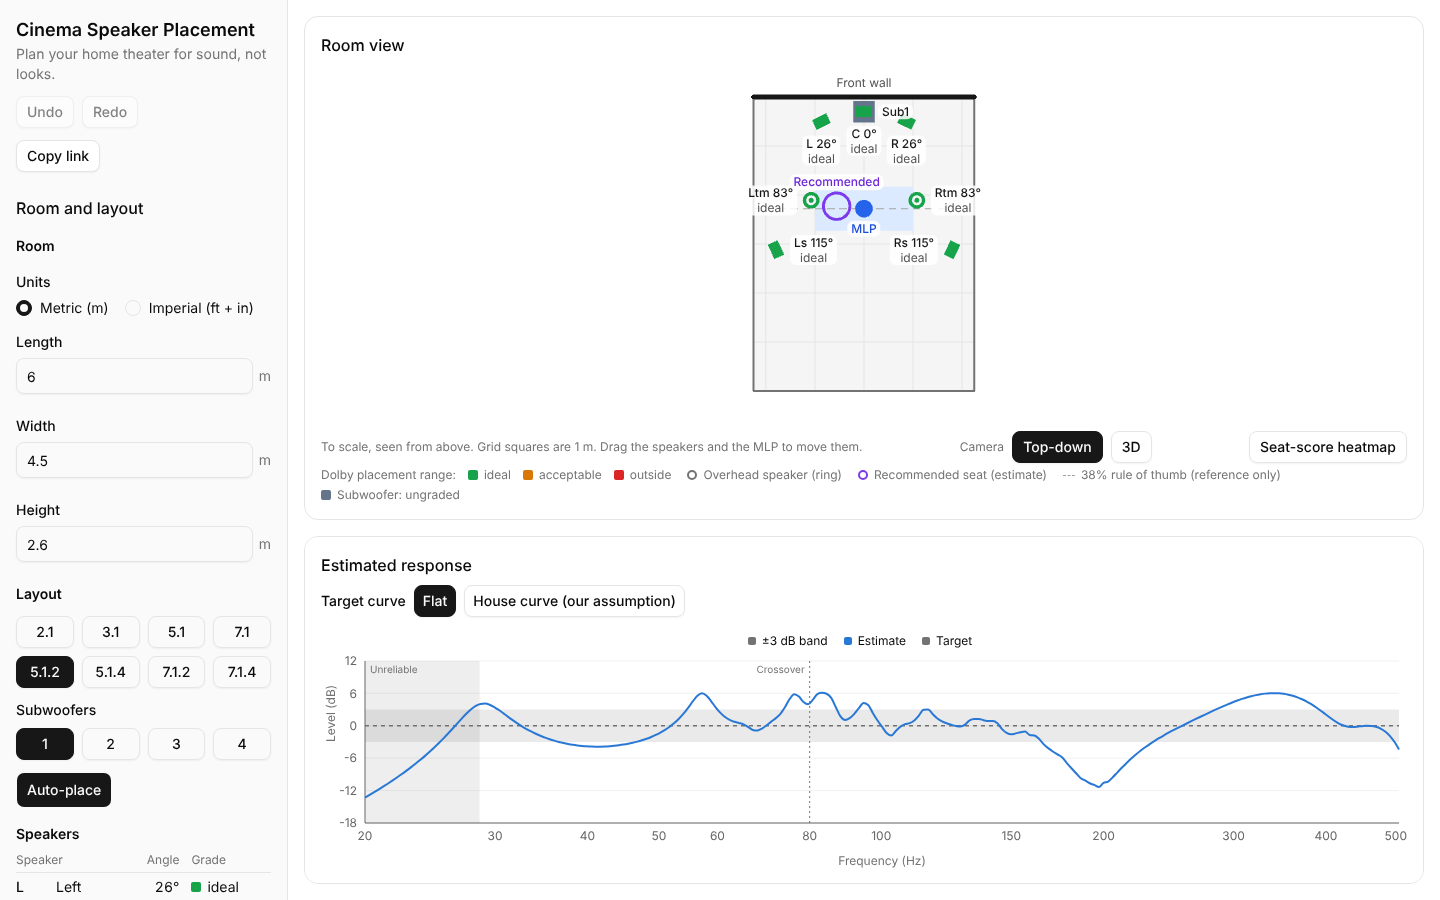
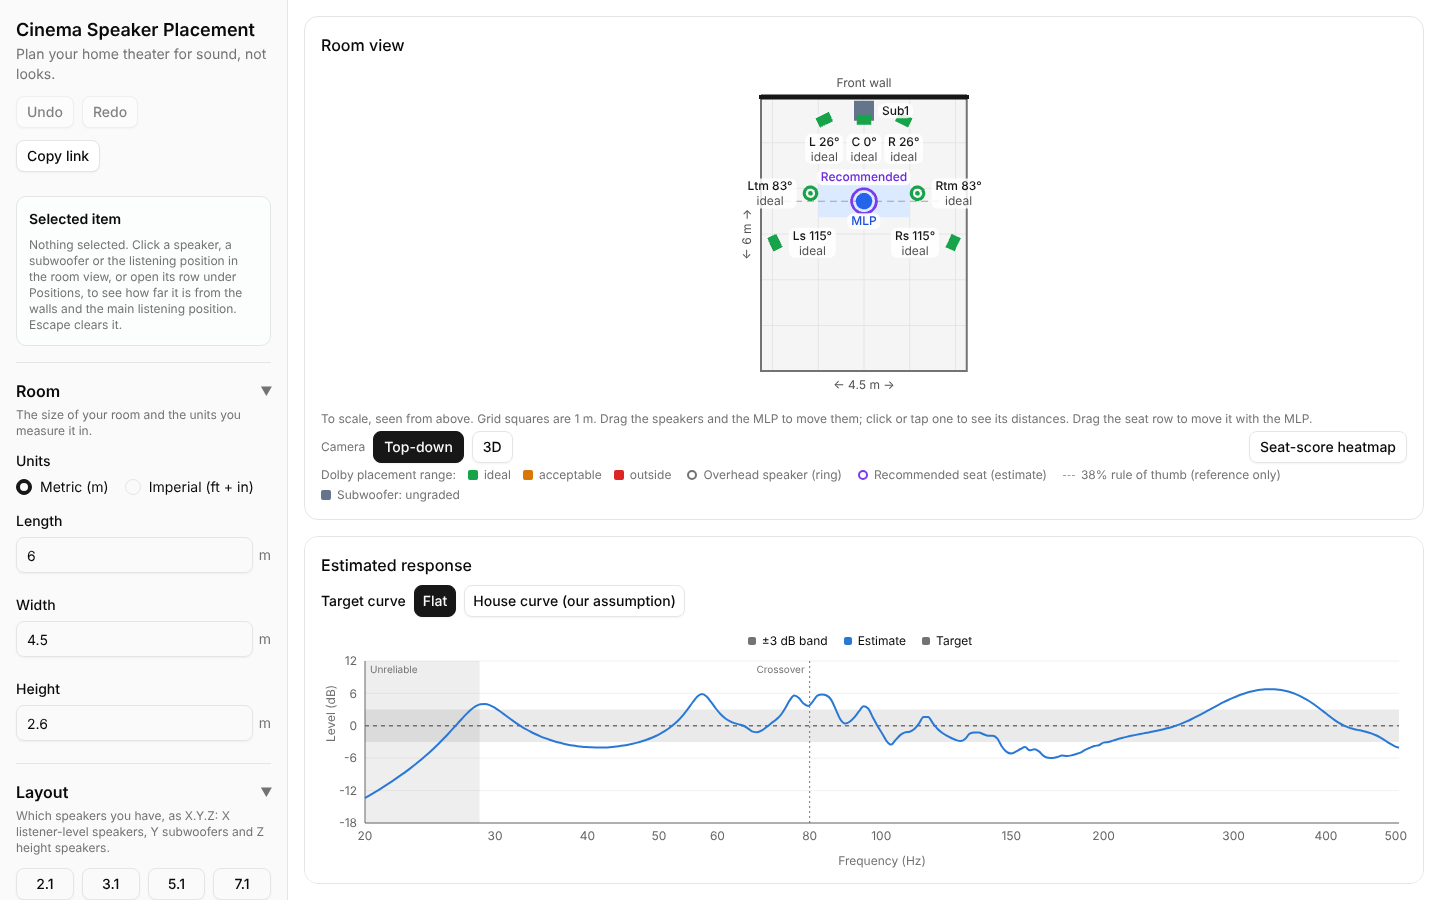
docs: v1.1.0 README, changelog, screenshot and version
Claude-Session: https://claude.ai/code/session_018fqPofzZTUT1dQDMrUubNf

diff --git a/CHANGELOG.md b/CHANGELOG.md
@@ -2,6 +2,38 @@
 
 All notable changes to this project are documented here. The project follows [Semantic Versioning](https://semver.org/). Every release is a `vX.Y.Z` tag on `main`, which deploys the site to GitHub Pages.
 
+## [1.1.0] - 2026-10-16
+
+Real-room placement, room objects and a clearer UI. Speakers now land where a home theater would put them, the plan can hold the couch, screen, furniture, doors and windows, and every grade explains itself.
+
+### Changed
+
+- **Auto-place follows real rooms** (ADR 0005). Speakers keep Dolby's angles, but Left, Center and Right sit 0.5 m from the front wall and the surrounds go to the side or back walls, instead of all sitting on one circle around the MLP. The sidebar explains that the receiver's distance (delay) setting evens out the different distances (#49).
+- **The recommended seat prefers the centre line.** An off-centre seat is only recommended when it is meaningfully better, and the UI says why. Candidate seats are scored with the speakers installed symmetric to the room (#48).
+- **The couch is drawn with the listener's head near its back**, so the MLP sits where a head would be (#47).
+- **Grouped, collapsible sidebar**: Room, Layout, Speakers, Seating, Room objects and Results (#52).
+
+### Added
+
+- **Measurements in the sketch**: the room's width and length along its walls (#50).
+- **Select an item** to see its distances to the two nearest walls and to the MLP, drawn as dimension lines (#51).
+- **Every grade explains itself**: its range, where it comes from and the cited source (#53).
+- **Room objects**, drawn and warned about but not part of the estimate (ADR 0006):
+  - a **screen or TV** on the front wall, with acoustically transparent screens (#55)
+  - a movable, resizable **couch**; the MLP sits on it (#54)
+  - up to 8 **furniture boxes**, turnable in 90° steps (#56)
+  - up to 6 **doors and windows** on any wall (#57)
+- **Placement warnings** W1–W7: a speaker in a door's swing or in front of a window, a subwoofer in a doorway, furniture blocking the direct sound, a speaker just above a cabinet top, uneven L/R reflection points, and the MLP close to the back wall. Each names its source class (#56, #57).
+- **Auto-place uses the screen**: with a screen, Left and Right go to its edges and the Center below, above or behind it, always inside Dolby's ranges (#58).
+- Research notes on real-room placement, seating, screens and openings, from manufacturers, standards and forums alongside Dolby (#40–#43), and ADRs 0005 and 0006 (#44, #45).
+
+### Notes
+
+- **Share links**: config schema version 2 (#46). Links made with 1.0.0 keep opening and are migrated. Version 2 links use short field names and compact openings to stay under the URL budget (ADR 0003 amendments).
+- With a default TV, auto Left and Right move in to 22°, the narrow end of Dolby's 22°–30° range: Dolby's range always wins over the screen edges.
+- In the default room the surrounds now read about 0.7 dB short of reference level on headroom, because they sit farther away at the side walls.
+- All acoustic output is still an estimate from a simplified model, never a measurement (ADR 0002).
+
 ## [1.0.0] - 2026-10-15
 
 The first complete release: plan a rectangular home theater room from Dolby's placement guidelines and a simplified low-frequency model, entirely in the browser.
@@ -44,5 +76,6 @@ The first complete release: plan a rectangular home theater room from Dolby's pl
 - CI for pull requests to `develop`, and the GitHub Pages deploy on release tags (#18).
 - Planning documents: CLAUDE.md, GLOSSARY.md, ADRs 0001–0002 and the cited Dolby placement research (#3).
 
+[1.1.0]: https://github.com/skcon/cinema-speaker-placement/compare/v1.0.0...v1.1.0
 [1.0.0]: https://github.com/skcon/cinema-speaker-placement/compare/v0.1.0...v1.0.0
 [0.1.0]: https://github.com/skcon/cinema-speaker-placement/releases/tag/v0.1.0

diff --git a/README.md b/README.md
@@ -18,16 +18,19 @@ See [CLAUDE.md](CLAUDE.md) for the project brief and architecture, [GLOSSARY.md]
   - listener-level speakers at Dolby's azimuth ranges: the front stage near the front wall, the surrounds at the side or back walls, with the receiver's distance setting evening out the arrival times
   - overhead speakers at Dolby's elevation angles and spacing
   - subwoofers in published multi-subwoofer arrangements
+  - with a screen, Left and Right at its edges and the Center below, above or behind it, inside Dolby's ranges
   - every range cites its source
-- **Placement-range grades**: each speaker is ideal, acceptable or outside on its angle (and elevation for overhead speakers) from the main listening position (MLP).
+- **Placement-range grades**: each speaker is ideal, acceptable or outside on its angle (and elevation for overhead speakers) from the main listening position (MLP), and each grade explains its range and source.
 - **Room view**:
-  - a top-down floor plan where you drag speakers, subwoofers and the MLP
+  - a top-down floor plan where you drag speakers, subwoofers, the MLP and room objects, with the room's measurements along its walls
+  - select an item to see its distances to the nearest walls and the MLP
   - a 3D view you can orbit to see overhead speakers in space
   - a seat row, the 38% rule of thumb as a reference, and a seat-score heatmap
 - **Estimated response at the MLP**:
   - room modes, boundary interference, crossover and subwoofer roll-off, against a flat or house target curve
   - weaknesses and strengths listed with their likely cause
-- **Recommended seat** from a grid of candidate seats scored on bass smoothness and placement fit, and "Move MLP here".
+- **Room objects**: a movable, resizable couch the MLP sits on, a screen or TV, up to 8 furniture boxes and up to 6 doors and windows. They are drawn and give placement warnings (for example a speaker in front of a window or furniture blocking the direct sound), each naming its source.
+- **Recommended seat** from a grid of candidate seats scored on bass smoothness and placement fit, preferring the room's centre line, and "Move MLP here".
 - **Headroom check**: whether your speakers and amplifier can reach reference level at the MLP.
 - **Share links**:
   - the whole plan lives in the URL, so copying the address shares the room
@@ -38,7 +41,7 @@ See [CLAUDE.md](CLAUDE.md) for the project brief and architecture, [GLOSSARY.md]
 ## Limitations
 
 - **Estimates, not measurements.** The acoustic model is simplified (ADR 0002): low-frequency room modes, boundary interference for listener-level speakers, and angle checks. It is not a full-band simulation, and a real room needs measuring (for example with REW).
-- **Rectangular rooms only.** No doors, windows, openings, furniture or room treatment.
+- **Rectangular rooms only.** No room treatment. Doors, windows, furniture and the screen are drawn and warned about, but they don't change the estimate (ADR 0006).
 - **The layouts above only.** No 9.1.x or larger, no Atmos-enabled (up-firing) or hybrid height layouts (a hint suggests them for low ceilings), no wall-mounted front or rear height speakers, and at least one subwoofer.
 - **One seat analyzed.** The analysis runs at the MLP only; the seat row is drawn, not analyzed.
 - **No dragging in 3D.** The 3D view is view only.
